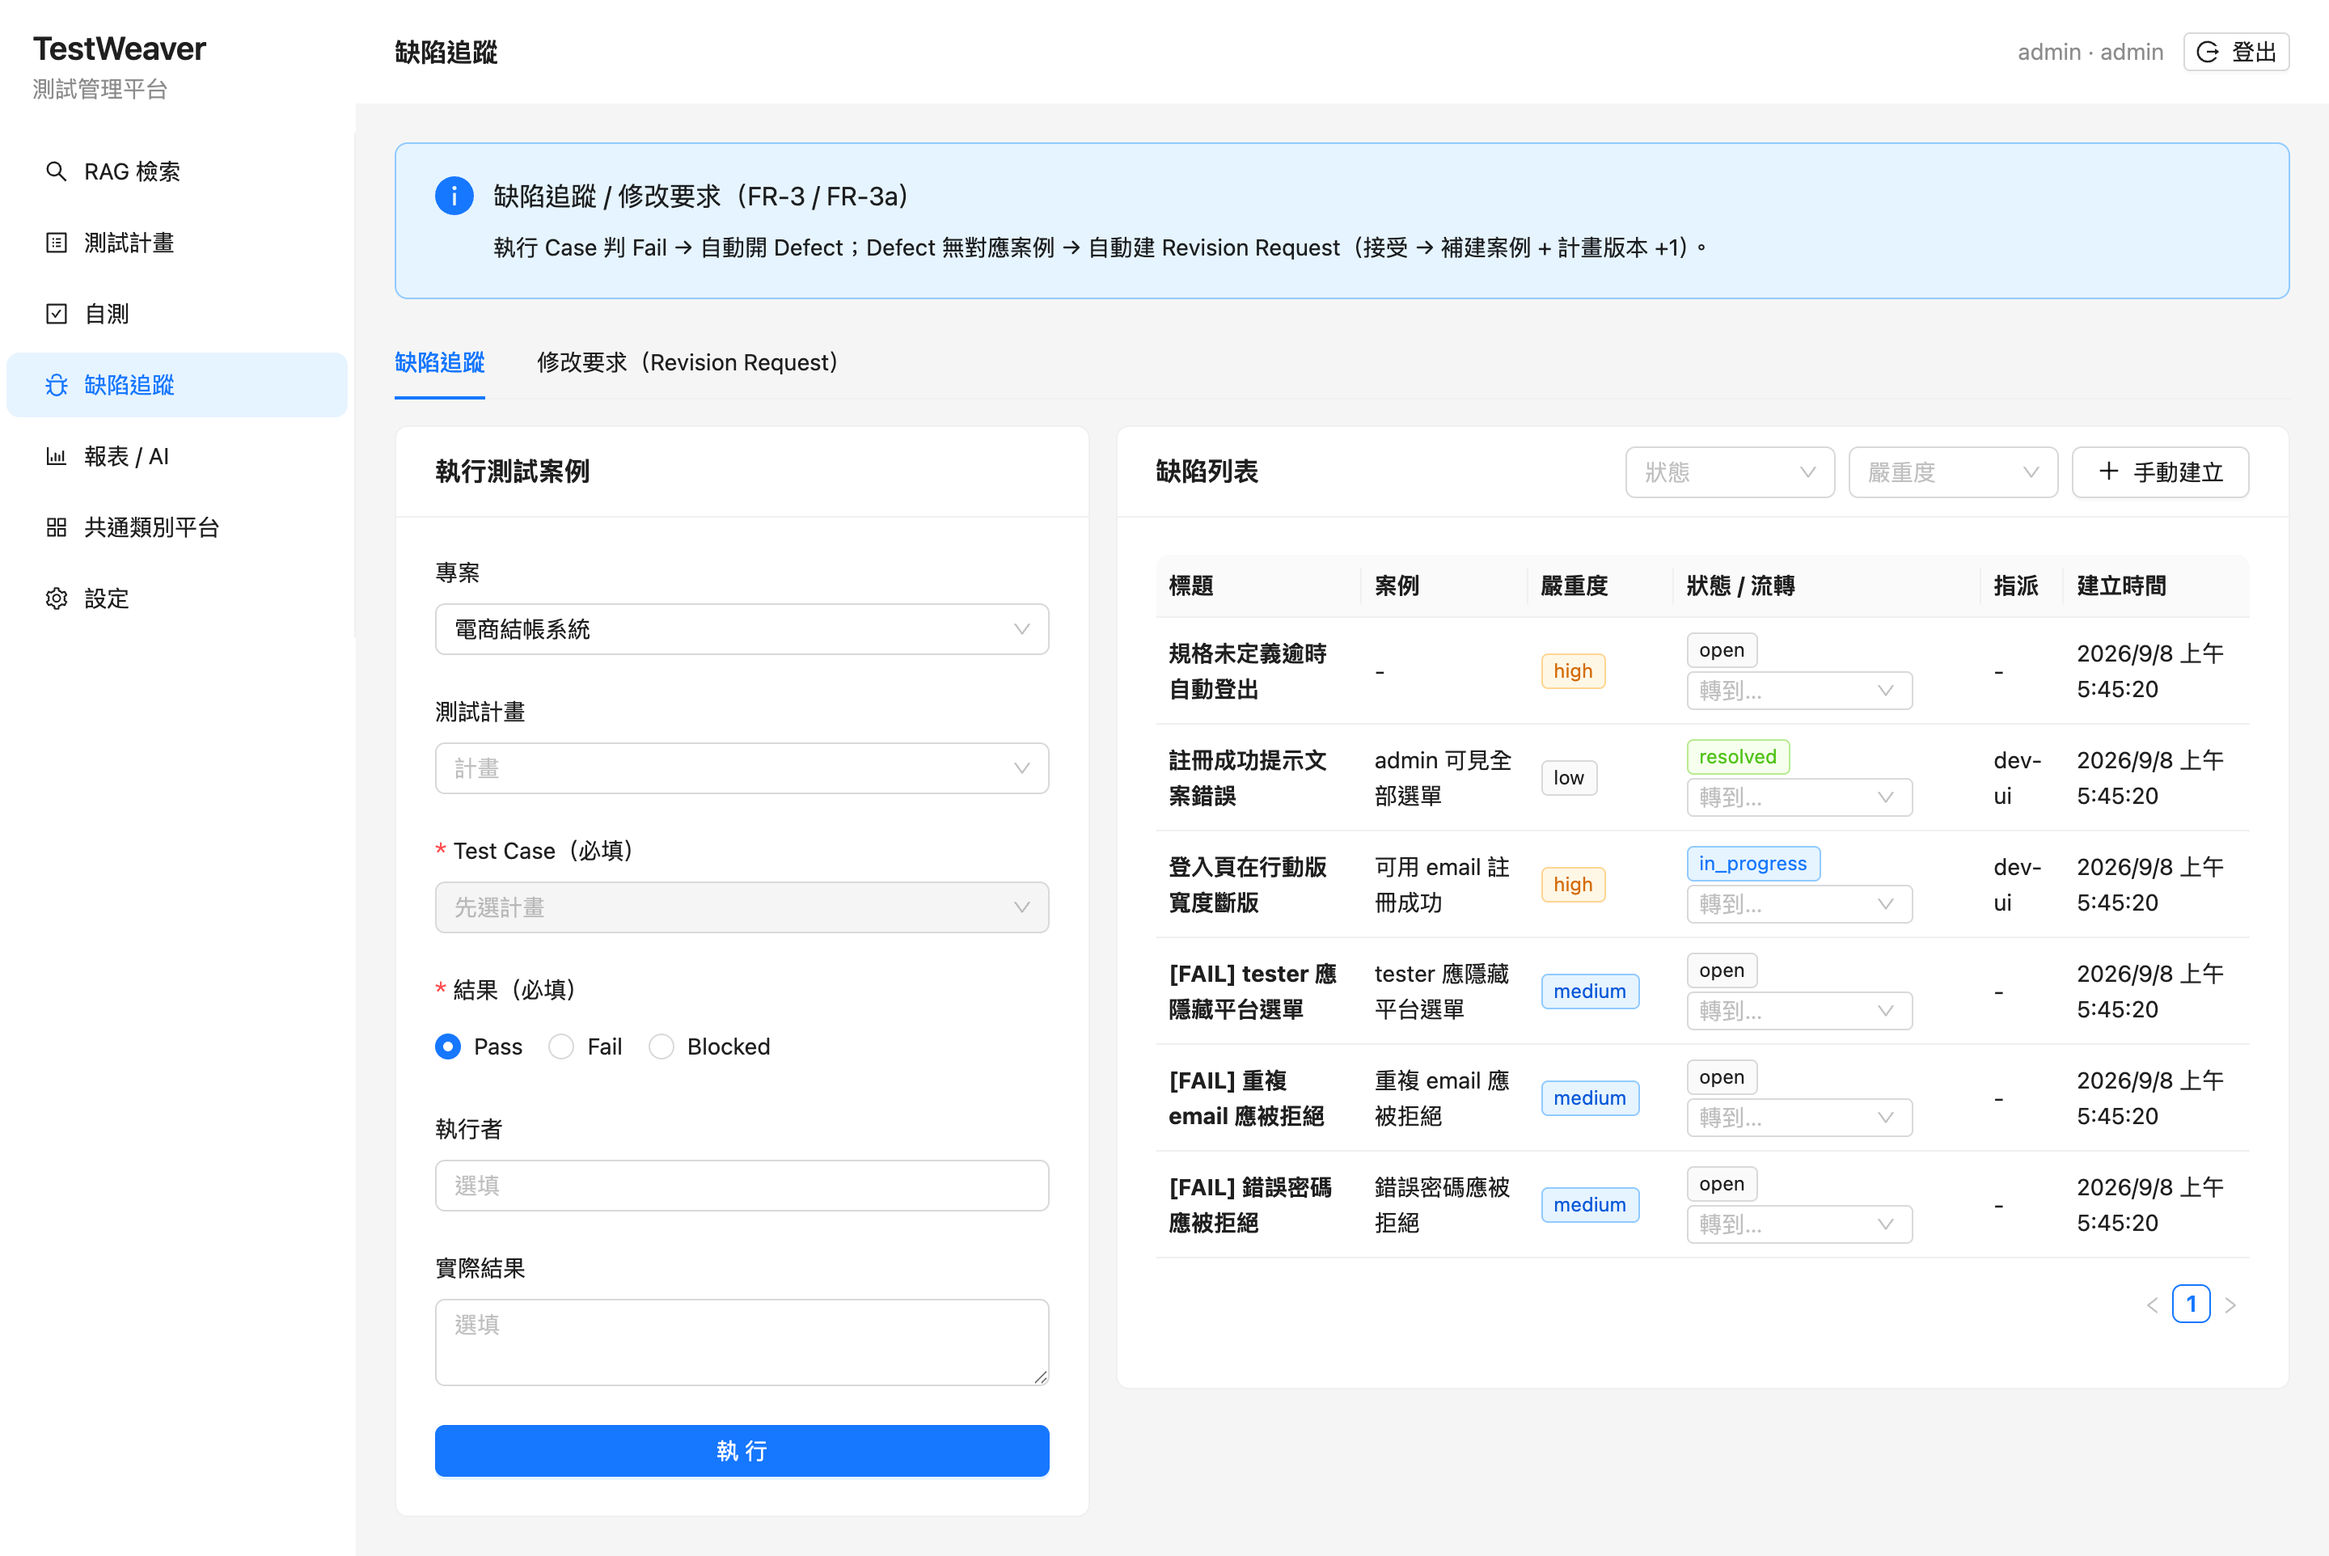
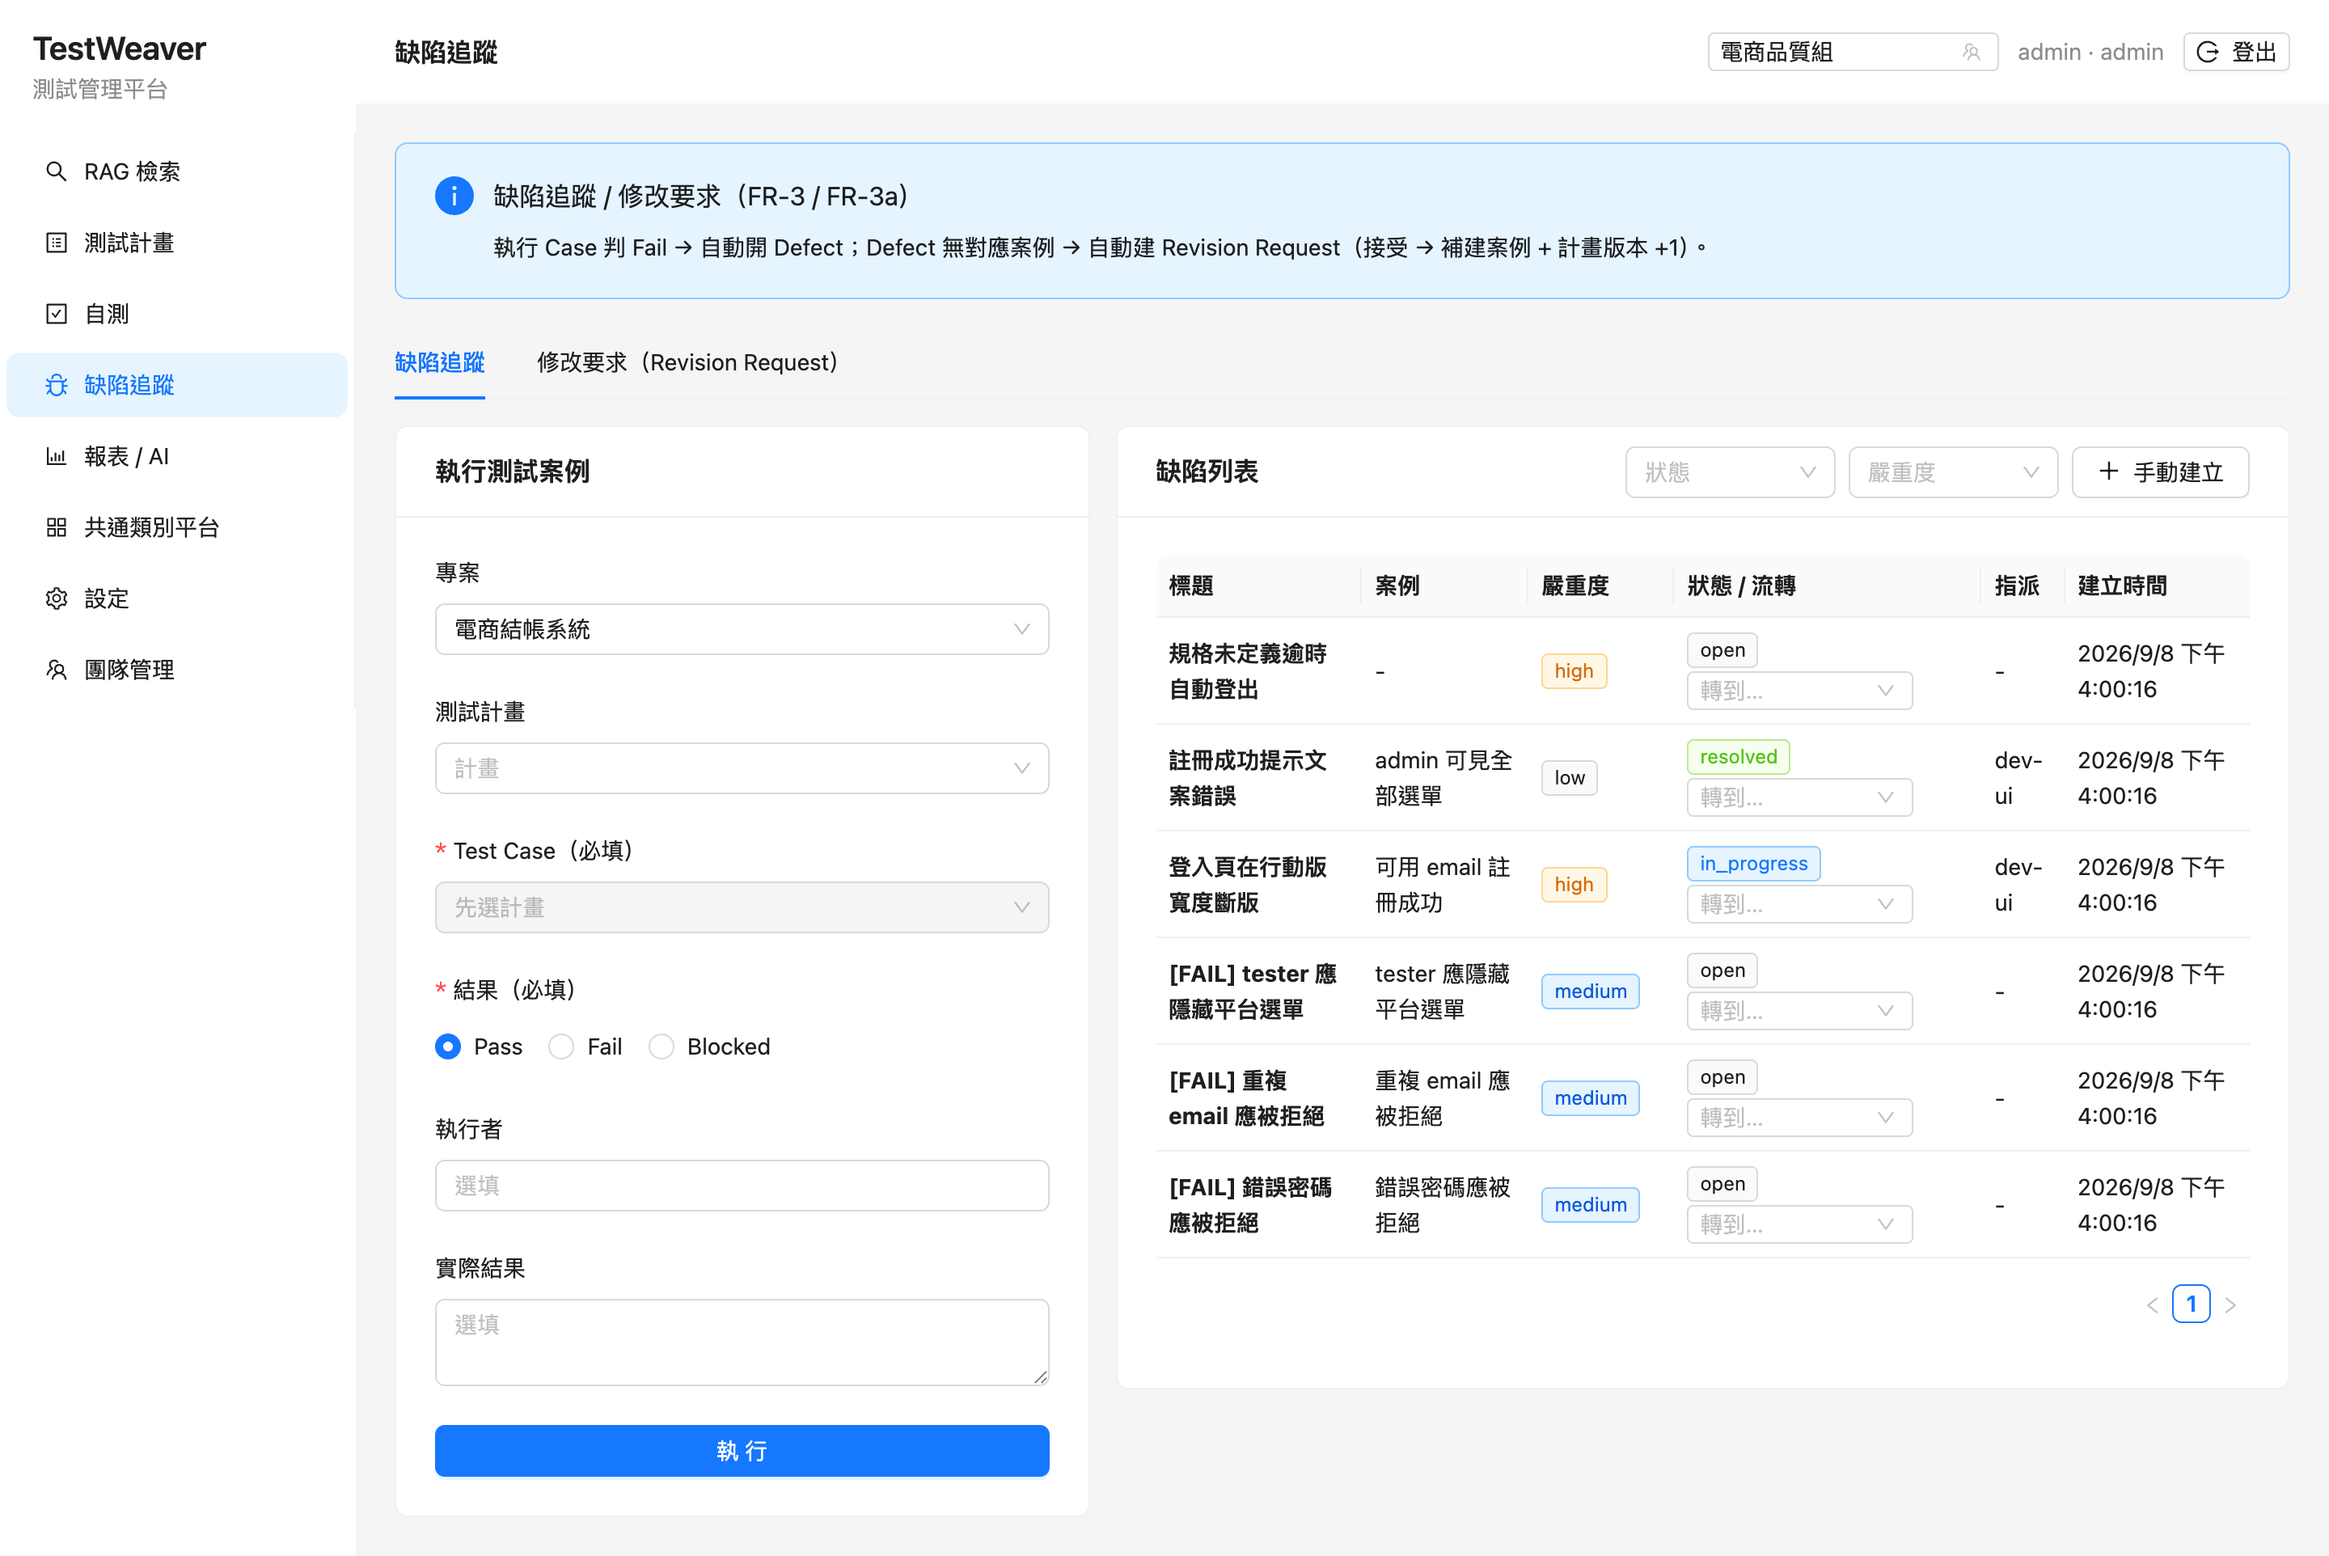
chore: 補 teams UI 截圖（v1.1 多團隊） (#9)
- seed_demo.py：示範資料加「電商品質組」團隊 + 4 名成員（owner/qa_lead/tester×2），並把示範專案歸入該隊
- capture_shots.js：新增第 5 張 teams.png（成員管理頁 + header team switcher）
- shots/*.png：regenerate（plan/defect/report header 現含 team switcher）；新增 teams.png
- 一頁摘要.html：產品畫面加 teams figure
- 交付說明.md：截圖項改為已完成

diff --git a/scripts/capture_shots.js b/scripts/capture_shots.js
@@ -1,9 +1,9 @@
 /**
- * 用無頭 Chrome（puppeteer-core，套用系統已裝的 Chrome）為 TestWeaver 抓四張 UI 截圖。
+ * 用無頭 Chrome（puppeteer-core，套用系統已裝的 Chrome）為 TestWeaver 抓五張 UI 截圖。
  * 由 scripts/capture-shots.sh 呼叫（起好前端後）。也可單獨跑：
  *   BASE=http://localhost:5173 OUT=shots CHROME_PATH="/Applications/Google Chrome.app/..." \
  *     node scripts/capture_shots.js
- * 產物：$OUT/{login,plan,defect,report}.png（供 一頁摘要.html 的「產品畫面」）。
+ * 產物：$OUT/{login,plan,defect,report,teams}.png（供 一頁摘要.html 的「產品畫面」）。
  */
 const path = require('path');
 const fs = require('fs');
@@ -143,6 +143,17 @@ async function clickByText(page, sel, text) {
   await sleep(700);
   await page.screenshot({ path: path.join(OUT, 'report.png') });
   log('report captured');
+
+  // 5) teams：成員管理頁（admin 可見全部團隊 + 可管理）
+  await page.goto(BASE + '/teams', { waitUntil: 'networkidle0' });
+  await sleep(700);
+  await page.waitForFunction(
+    () => document.querySelectorAll('.ant-table-tbody tr').length >= 3,
+    { timeout: 20000 }
+  );
+  await sleep(800);
+  await page.screenshot({ path: path.join(OUT, 'teams.png'), fullPage: true });
+  log('teams captured');
 
   await browser.close();
   console.log('ALL_DONE');

diff --git a/一頁摘要.html b/一頁摘要.html
@@ -144,6 +144,10 @@
         <img src="shots/report.png" alt="完成報表：通過率 / 缺陷分佈 ECharts + AI 分析建議">
         <figcaption>ECharts 圖表 + AI 建議</figcaption>
       </figure>
+      <figure class="shot">
+        <img src="shots/teams.png" alt="多團隊：header 切換團隊 + 成員管理（加人/改角色/刪除）">
+        <figcaption>多團隊：切換 + 成員管理</figcaption>
+      </figure>
     </div>
   </section>
 

diff --git a/scripts/seed_demo.py b/scripts/seed_demo.py
@@ -22,7 +22,9 @@ from app.services.revision_service import (
     create_revision_request,
     ensure_revision_for_defect,
 )
-from app.services.auth_service import ensure_default_admin
+from app.models.user import User
+from app.models.team import Team, TeamMember
+from app.services.auth_service import ensure_default_admin, make_user
 
 Base.metadata.create_all(_get_engine())
 
@@ -60,7 +62,25 @@ def add_case(s, fn_id, name, status, priority="medium", pre="", steps="", exp=""
 
 ids = {}
 with session_scope() as s:
-    proj = Project(name="電商結帳系統", description="示範專案（自動產生資料）")
+    # 多團隊示範：一個 populated 團隊 + 成員（供 UI 截圖：header switcher + TeamsPage）
+    admin_name = os.getenv("AUTH_ADMIN_USERNAME", "admin")
+    admin = s.query(User).filter_by(username=admin_name).first()
+    lead = make_user(s, "chen-lead", "pw", role="qa_lead")
+    t1 = make_user(s, "wang-tester", "pw", role="tester")
+    t2 = make_user(s, "li-tester", "pw", role="tester")
+    s.flush()
+    team = Team(name="電商品質組", description="結帳系統品保團隊")
+    s.add(team)
+    s.flush()
+    for uid, role in [
+        (admin.id, "owner"),
+        (lead.id, "qa_lead"),
+        (t1.id, "tester"),
+        (t2.id, "tester"),
+    ]:
+        s.add(TeamMember(team_id=team.id, user_id=uid, role=role))
+
+    proj = Project(name="電商結帳系統", description="示範專案（自動產生資料）", team_id=team.id)
     s.add(proj)
     s.flush()
 

diff --git a/交付說明.md b/交付說明.md
@@ -222,7 +222,7 @@ cd ../frontend && npm install && npm run dev        # Vite proxy /api → :8000
 - **前端測試**：已覆蓋 API 客戶端 / hook / EChart / roles；頁面級（Storybook/RTL 流程）可再補。
 - **CI 產物**：可加 build artifact 上傳、覆蓋率（pytest-cov / vitest coverage）門檻。
 - **生產**：限流、CORS 白名單、HTTPS、`JWT_SECRET` 長隨機、MySQL 連線池參數、備份策略。
-- **多團隊截圖**：團隊 UI（header switcher / 成員頁）已實作；`一頁摘要.html` 截圖尚未重拍（既有 login/plan/defect/report 仍有效），可擴充 `scripts/capture-shots.sh` 補 teams 頁。
+- **多團隊截圖**：已補 `shots/teams.png`（header switcher + 成員管理頁）並加入 `一頁摘要.html`；`scripts/capture-shots.sh` 可重拍。
 
 ---
 
